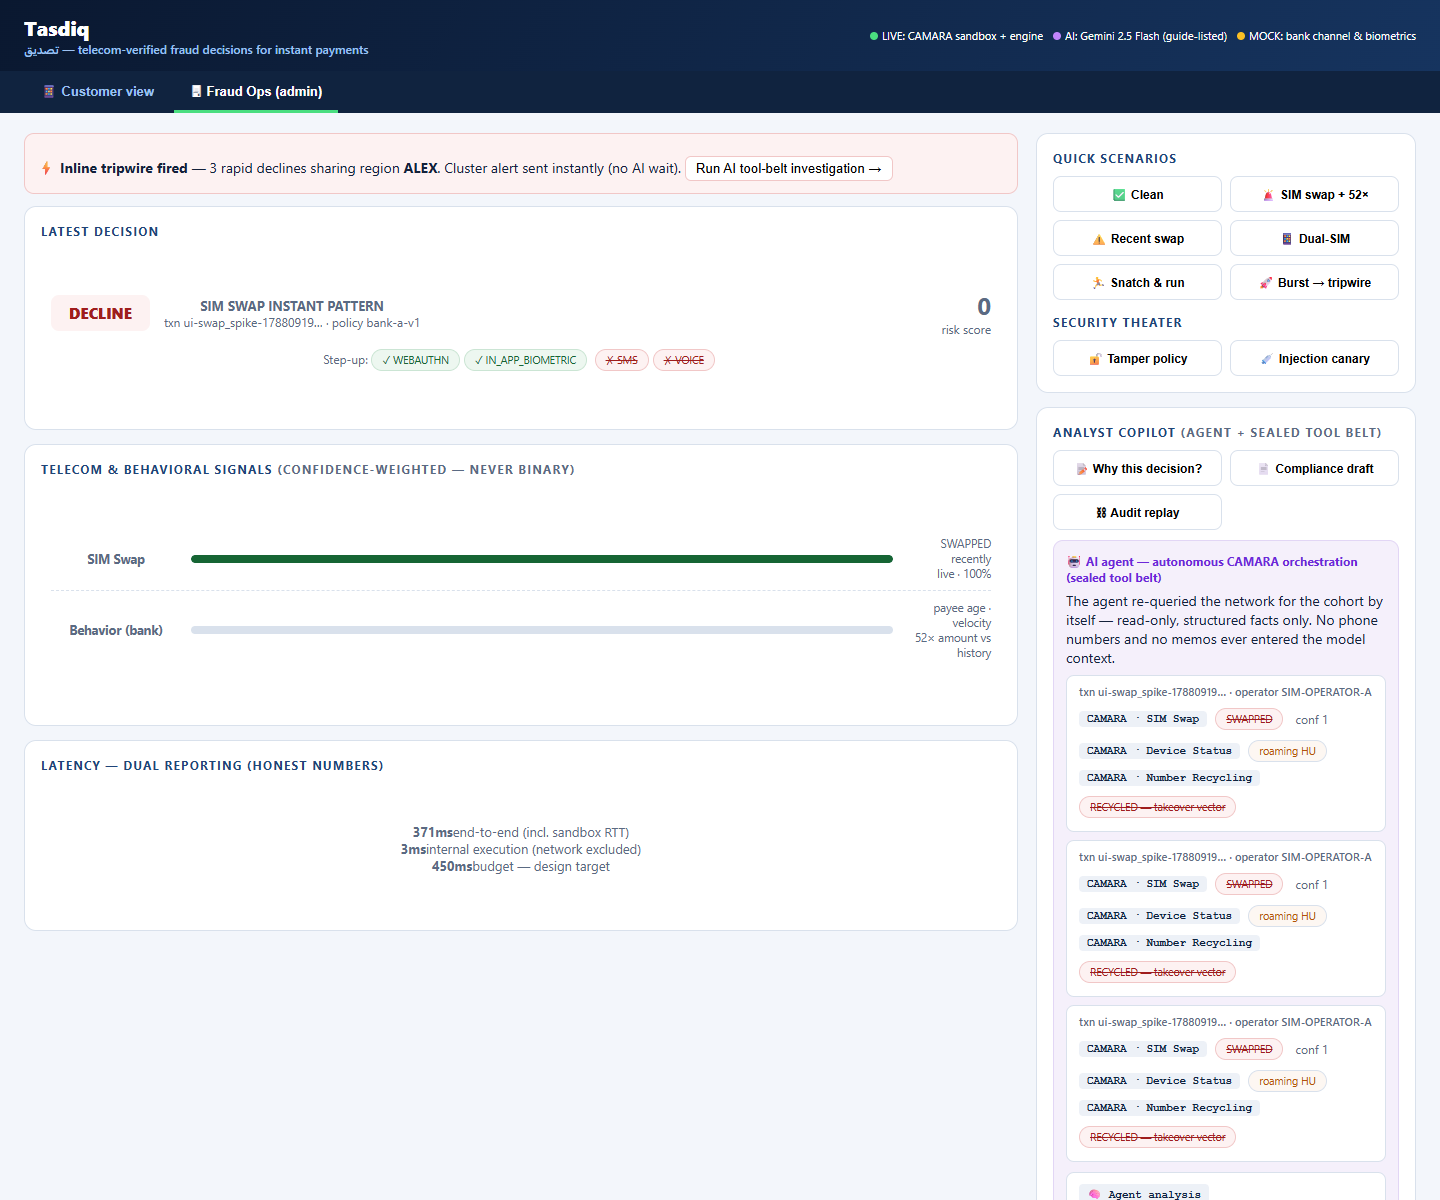
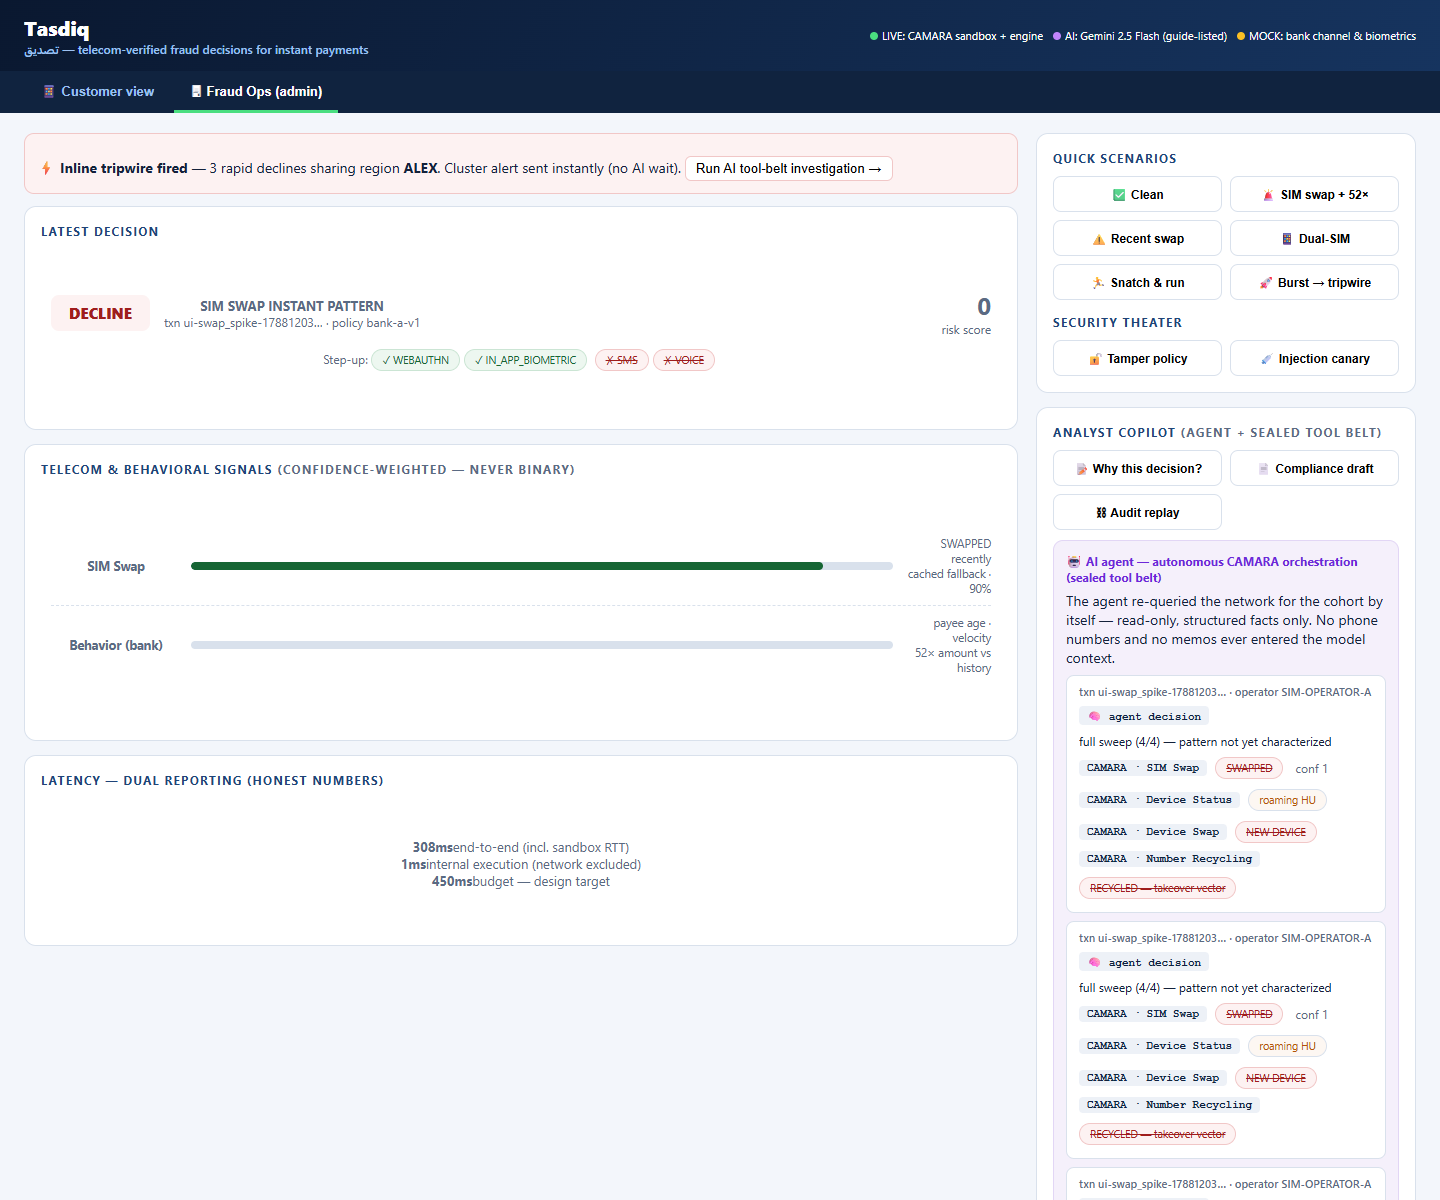
Agentic proportionality: agent selects which CAMARA probes to re-run per transaction (model selection + deterministic full-sweep fallback, rationale in UI + agent ledger), hardened probe errors; README 'why each API earns its place' table + /docs contract line; demo script shot 6

diff --git a/demo/ui/index.html b/demo/ui/index.html
@@ -400,11 +400,18 @@ async function investigate(){
   const ids = recentTxns.length ? recentTxns.slice(-3) : [lastTxn];
   const cl = {cluster_alert:true, count:ids.length, region:SCEN[current].region, txn_ids:ids};
   const j = await api("/v1/agent/investigate", cl);
+  const sel = j.selection||{};
   const probes = (j.investigation||[]).map(p => {
     if(p.error) return `<div class="probe"><b>${p.txn_id?.slice(0,20)}…</b> <span class="chip no">not found</span></div>`;
     const sw = p.sim_swap||{}, ds = p.device_status||{}, nr = p.number_recycling||{};
+    const mySel = sel[p.txn_id];
+    const ran = (p.probes_run||[]).length;
+    const selLine = mySel
+      ? `<div class="prow"><span class="papi">🧠 agent decision</span> ran ${ran}/4 probes — <i>${mySel.why||"proportionate subset"}</i></div>`
+      : `<div class="prow"><span class="papi">🧠 agent decision</span> full sweep (4/4) — pattern not yet characterized</div>`;
     return `<div class="probe">
       <div class="ptxn">txn ${p.txn_id.slice(0,22)}… · operator ${sw.operator||"—"}</div>
+      ${selLine}
       <div class="prow"><span class="papi">CAMARA · SIM Swap</span> ${sw.swapped ? '<span class="chip no">SWAPPED</span>' : '<span class="chip ok">no swap</span>'} <span class="muted">conf ${sw.signal_confidence ?? "—"}</span></div>
       <div class="prow"><span class="papi">CAMARA · Device Status</span> ${ds.roaming ? '<span class="chip" style="background:#FDF7F2;color:#B45309">roaming '+(ds.country||"")+'</span>' : '<span class="chip ok">home network</span>'}</div>
       <div class="prow"><span class="papi">CAMARA · Device Swap</span> ${p.device_swap && p.device_swap.swapped ? '<span class="chip no">NEW DEVICE</span>' : p.device_swap && p.device_swap.swapped === false ? '<span class="chip ok">same device</span>' : '<span class="chip">unavailable</span>'}</div>

diff --git a/app/ai/tools.py b/app/ai/tools.py
@@ -72,28 +72,46 @@ class ToolBelt:
                 "country": (v.get("countryName") or [None])[0],
                 "connectivity_hint": v.get("lastStatusTime")}
 
-    def camara_probe_for_txn(self, txn_id: str):
-        """Investigation entry: txn -> hash -> sealed CAMARA re-query (structured facts out)."""
+    ALL_PROBES = ("SIM_SWAP", "DEVICE_STATUS", "DEVICE_SWAP", "NUMBER_RECYCLING")
+
+    def camara_probe_for_txn(self, txn_id: str, signals=None):
+        """Investigation entry: txn -> hash -> sealed CAMARA re-query (structured facts out).
+        `signals` = proportionate subset chosen by the agent (None -> full sweep)."""
         h = self.txn_index.get(txn_id)
         if not h:
             return {"txn_id": txn_id, "error": "not found"}
-        recyc = None
-        dswap = None
+        chosen = [s for s in self.ALL_PROBES if not signals or s in signals]
+        out = {"txn_id": txn_id, "probes_run": chosen, "ts": time.time()}
         try:
             raw = self.vault.resolve(h)
-            if raw:
-                rr = self.nac.number_recycling(raw)
-                recyc = {"phoneNumberRecycled": (rr.value or {}).get("phoneNumberRecycled")}
-                dsv = self.nac.device_swap(raw, 3.0)
-                dswap = {"swapped": (dsv.value or {}).get("swapped")}
         except Exception:
-            recyc = {"error": "unavailable"}
-            dswap = {"error": "unavailable"}
-        out = {"txn_id": txn_id, "sim_swap": self._structured_swap(h),
-               "device_status": self._structured_status(h),
-               "device_swap": dswap,
-               "number_recycling": recyc, "ts": time.time()}
-        self.log(f"[TOOLBELT][investigation] txn={txn_id} -> structured facts only")
+            raw = None
+        if raw is None:
+            out["error"] = "unknown hash"
+            return out
+        if "SIM_SWAP" in chosen:
+            try:
+                out["sim_swap"] = self._structured_swap(h)
+            except Exception:
+                out["sim_swap"] = {"error": "budget/unavailable"}
+        if "DEVICE_STATUS" in chosen:
+            try:
+                out["device_status"] = self._structured_status(h)
+            except Exception:
+                out["device_status"] = {"error": "budget/unavailable"}
+        if "DEVICE_SWAP" in chosen:
+            try:
+                dsv = self.nac.device_swap(raw, 3.0)
+                out["device_swap"] = {"swapped": (dsv.value or {}).get("swapped")}
+            except Exception:
+                out["device_swap"] = {"error": "unavailable"}
+        if "NUMBER_RECYCLING" in chosen:
+            try:
+                rr = self.nac.number_recycling(raw)
+                out["number_recycling"] = {"phoneNumberRecycled": (rr.value or {}).get("phoneNumberRecycled")}
+            except Exception:
+                out["number_recycling"] = {"error": "unavailable"}
+        self.log(f"[TOOLBELT][investigation] txn={txn_id} probes={chosen} -> structured facts only")
         self.ledger.append_agent(txn_id, "toolbelt_investigation",
                                  hashlib.sha256(json.dumps(out, sort_keys=True).encode()).hexdigest())
         return out

diff --git a/app/ai/agent.py b/app/ai/agent.py
@@ -85,14 +85,44 @@ class TasdiqAgent:
         return out
 
     # ---------- tool-belt investigation (orchestration requirement) ------------
+    def _select_probes(self, cluster: dict):
+        """Proportionality step: the agent decides WHICH signals are worth
+        re-checking for this cohort (model call, strict JSON). Returns
+        {txn_id: {"probes": [...], "why": str}} or None -> full sweep fallback."""
+        if not self.tools:
+            return None
+        facts = {k: cluster.get(k) for k in ("count", "region", "txn_ids", "window_s") if k in cluster}
+        out = self._strict_json(
+            "You are the fraud investigation lead. For each transaction below decide which "
+            "CAMARA signals are worth re-checking right now. Signals available: SIM_SWAP, "
+            "DEVICE_STATUS, DEVICE_SWAP, NUMBER_RECYCLING. Be proportionate: re-check what "
+            "would change the analysis; say why in one short clause. "
+            f"CLUSTER FACTS: {json.dumps(facts)} "
+            'Return JSON: {"selections": [{"txn_id": str, "probes": [str], "why": str}]}',
+            ["selections"])
+        if not out or not isinstance(out.get("selections"), list):
+            return None
+        valid = set(__import__("app.ai.tools", fromlist=["ToolBelt"]).ToolBelt.ALL_PROBES)
+        sel = {}
+        for s in out["selections"]:
+            tid = s.get("txn_id")
+            probes = [p for p in (s.get("probes") or []) if p in valid]
+            if tid and probes:
+                sel[tid] = {"probes": probes, "why": s.get("why", "")}
+        return sel or None
+
     def investigate_cluster(self, cluster: dict) -> dict:
-        """Agent autonomously re-queries CAMARA for the cohort via its sealed tool belt."""
+        """Agent autonomously decides which CAMARA signals to re-check for the
+        cohort (proportionality), then executes its selection via the sealed
+        tool belt. No selection -> full sweep (deterministic fallback)."""
+        selection = self._select_probes(cluster)
         probes = []
         if self.tools:
             for txn_id in cluster.get("txn_ids", [])[:5]:
-                probes.append(self.tools.camara_probe_for_txn(txn_id))
+                sel = (selection or {}).get(txn_id)
+                probes.append(self.tools.camara_probe_for_txn(txn_id, signals=sel["probes"] if sel else None))
         analysis = self.cluster_and_recommend(cluster)
-        return {"investigation": probes, "analysis": analysis}
+        return {"selection": selection, "investigation": probes, "analysis": analysis}
 
     # ---------- analyst copilot --------------------------------------------------
     def copilot_answer(self, question: str, txn_id: str) -> dict:

diff --git a/demo/DEMO_SCRIPT.md b/demo/DEMO_SCRIPT.md
@@ -15,7 +15,7 @@ never apologize for it.
 | 3 | 0:40–1:10 | Customer tab → chip "SIM-swap attack" → Pay | "Attacker swaps the SIM, transfers 52,000 EGP — 52× this account's normal. Watch the phone: the customer is protected in under a second. No OTP was ever sent — the SMS channel may belong to the attacker." |
 | 4 | 1:10–1:35 | Result screen + timeline | "Plain language, bilingual: what happened, why, and what the customer should do. Bank sees the same decision signed to a hash-chained ledger." |
 | 5 | 1:35–2:00 | Ops: tamper demo (🔓 Tamper policy) | "Zero-trust: policies are Ed25519-signed under maker-checker. Watch — I modify a threshold in the config… the engine REJECTS the tampered bundle. No silent honoring." |
-| 6 | 2:00–2:25 | Ops: burst (6 rapid attempts) → tripwire → Investigate | "Coordinated attack pattern — the deterministic tripwire fires, and the AI agent investigates through its PII-sealed tool belt: re-queries telecom signals, clusters the cohort, drafts the bilingual report. The AI never decides — it documents." |
+| 6 | 2:00–2:25 | Ops: burst (6 rapid attempts) → tripwire → Investigate | "Coordinated attack pattern — the deterministic tripwire fires, and the AI agent investigates: it decides which signals are proportionate to re-check per transaction, runs them through its PII-sealed tool belt, and drafts the bilingual report. The AI never decides the payment — it decides the investigation." |
 | 7 | 2:25–2:45 | Ops: canary (💉 injection) | "Hostile memo in the transaction — a prompt-injection attempt. Schema-locked output: the report stays clean. Enterprise LLM security, demoed live." |
 | 8 | 2:45–3:00 | Snatch-&-run chip → Face ID | "And the fraud telecom can't see: phone snatched unlocked. Telecom green — but behavior isn't. Step-up: in-app biometric only. SMS prohibited — the thief holds the phone. Tasdiq." |
 

diff --git a/README.md b/README.md
@@ -83,11 +83,25 @@ sovereign deployments — hosted models see **synthetic demo data only**).
 | `POST /v1/decide` | The decision rail (decision, band, step-up allow/prohibit, dual latency, policy hash) |
 | `POST /v1/replay` | Audit replay of any transaction from the ledger |
 | `GET /v1/metrics` | Engine metrics |
+| `GET /docs` | Machine-readable OpenAPI spec (auto-generated contract) |
 | `POST /v1/policy/verify` | Policy-bundle signature verification (tamper demo) |
 | `POST /v1/agent/explain` · `/report` · `/customer_alert` | Async AI outputs (schema-locked JSON) |
 | `POST /v1/agent/investigate` | **Agent-orchestrated CAMARA re-queries** for a tripwire cluster (sealed tool belt) |
 | `POST /v1/agent/copilot` | Analyst Q&A from ledger projection only (no PII) |
 | `POST /v1/agent/canary` | Prompt-injection containment proof |
+
+## Why each CAMARA API earns its place
+
+| API | The question it answers | What breaks without it |
+|---|---|---|
+| **SIM Swap** | Did this number move to a new SIM? | Misses classic number-theft takeover; SMS step-up could reach the attacker |
+| **Device Swap** | Did the number move to a different *device*? | Blind to re-registration without a SIM change — SIM Swap's blind spot |
+| **Number Verification** | Does the number match the paying device? | No silent possession check — every payment needs an OTP (or worse, none) |
+| **Device Status** | Roaming / country / connectivity? | Loses context: a "weird" payment from a roaming regular traveler looks identical to a hacked one |
+
+Together with bank-side behavioral signals (payee recency, velocity, amount-vs-mean), the
+four families cover number theft, device re-registration, phone-in-hand theft, and
+coercion-style anomalies — no single signal covers them all.
 
 ## Demo UI (two views)
 
